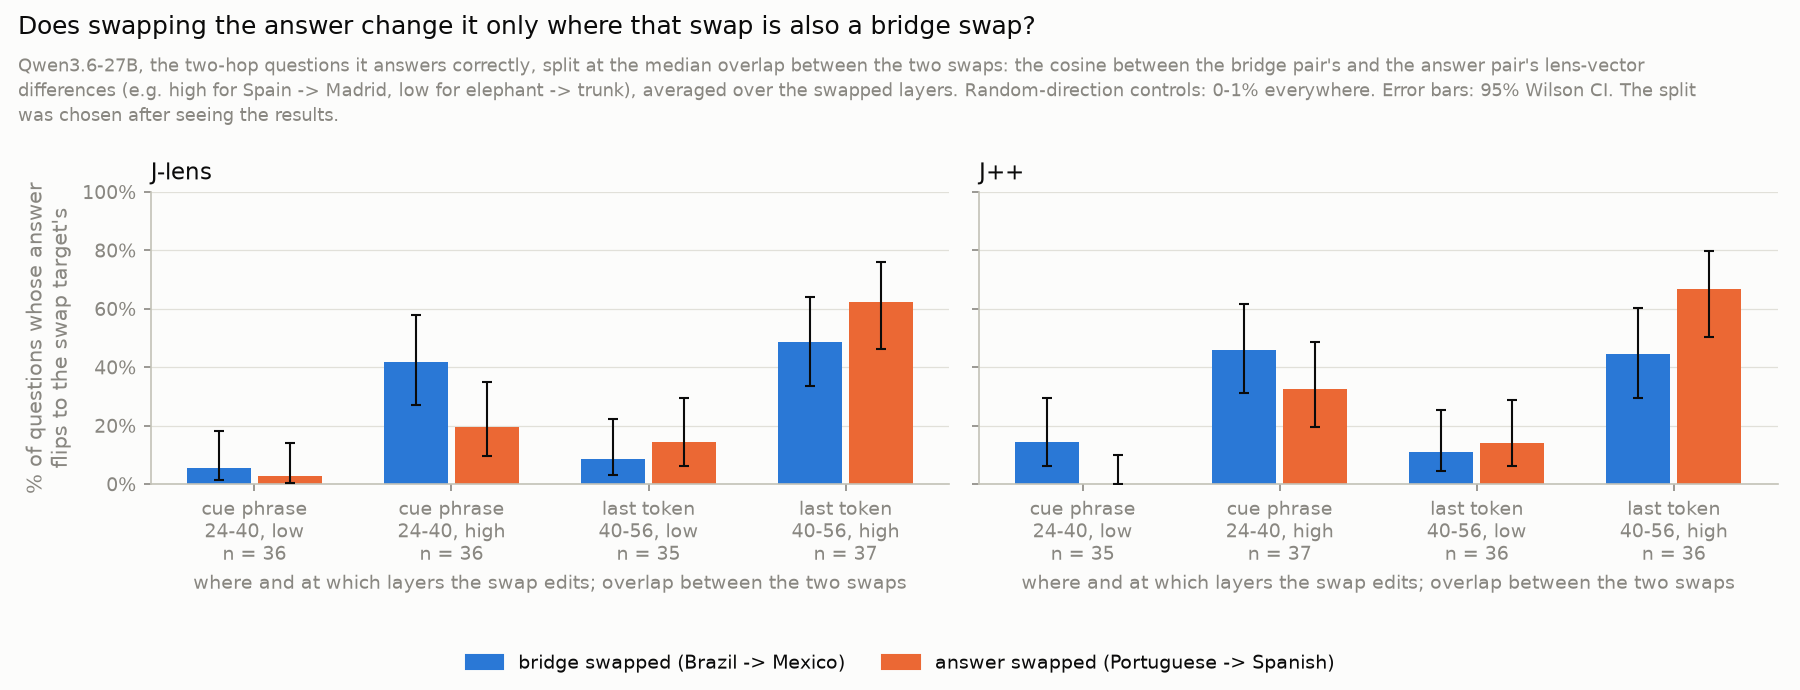
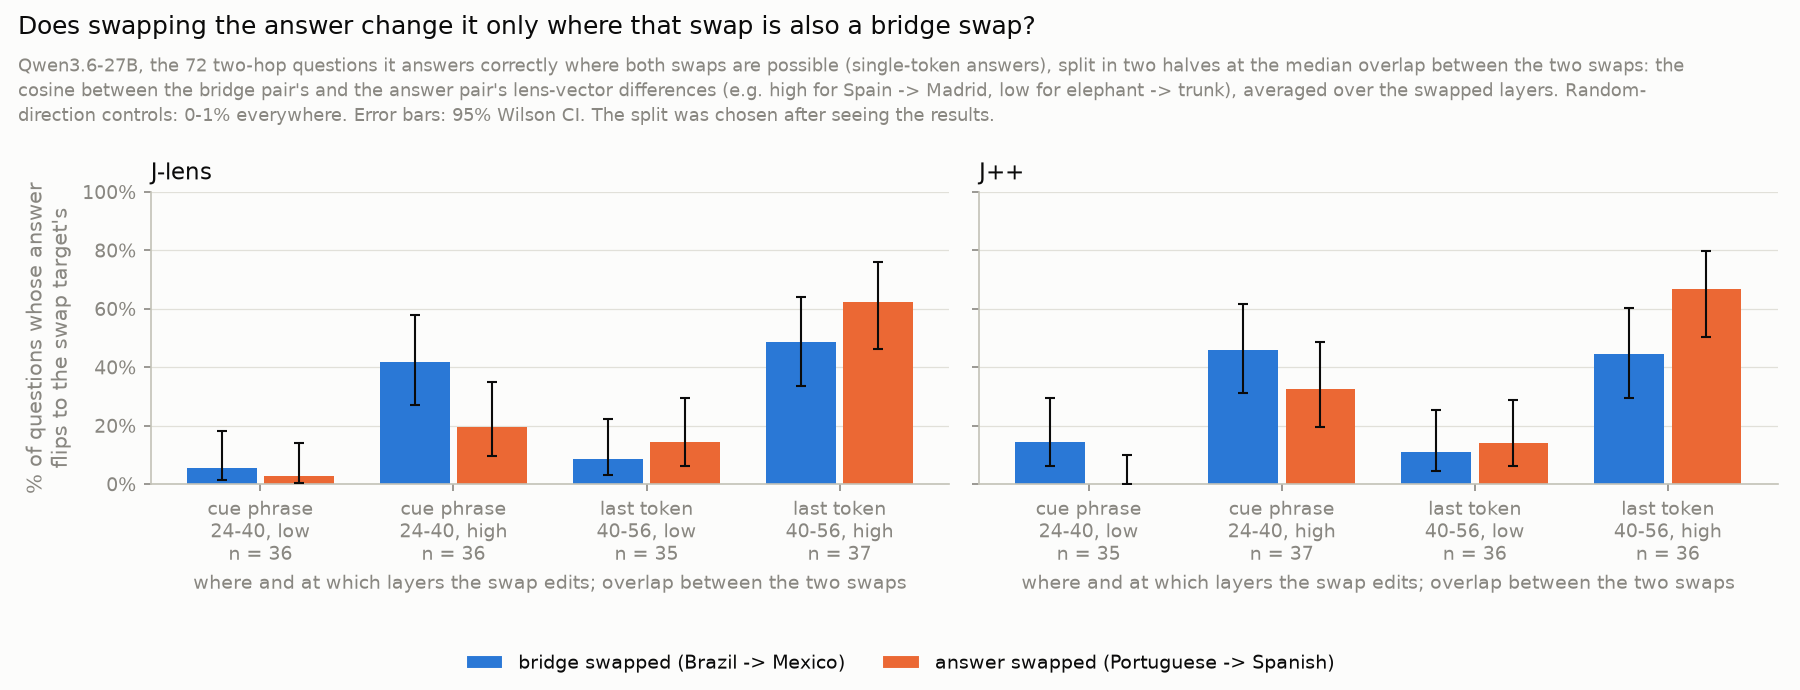
exp14: overlap figure says it splits the 72 questions with single-token answers in halves

diff --git a/scripts/exp14_cue_answer_swaps/plot.py b/scripts/exp14_cue_answer_swaps/plot.py
@@ -94,6 +94,9 @@ def plot_overlap(path: Path, rows: list[dict], post_hoc: bool = False) -> Path:
     fig, axes = plt.subplots(1, len(lenses), figsize=(6 * len(lenses), 4.6), facecolor=SURFACE, sharey=True)
     kinds = _kinds(rows)
     width = 0.8 / len(kinds)
+    first = rows[0]
+    n_total = sum(r["n"] for r in rows if (r["lens"], r["positions"], r["band"], r["kind"]) ==
+                  (first["lens"], first["positions"], first["band"], first["kind"]))  # fmt: skip
     for ax, lens in zip(np.atleast_1d(axes), lenses, strict=True):
         ticks = []
         for ci, ((positions, band), half) in enumerate((c, h) for c in cells for h in ("low", "high")):
@@ -132,7 +135,8 @@ def plot_overlap(path: Path, rows: list[dict], post_hoc: bool = False) -> Path:
         fig,
         path,
         "Does swapping the answer change it only where that swap is also a bridge swap?",
-        "Qwen3.6-27B, the two-hop questions it answers correctly, split at the median overlap between the two swaps: "
+        f"Qwen3.6-27B, the {n_total} two-hop questions it answers correctly where both swaps are possible (single-token "
+        "answers), split in two halves at the median overlap between the two swaps: "
         "the cosine between the bridge pair's and the answer pair's lens-vector differences (e.g. high for "
         "Spain -> Madrid, low for elephant -> trunk), averaged over the swapped layers. Random-direction controls: 0-1% "
         "everywhere. Error bars: 95% Wilson CI."

diff --git a/results/README.md b/results/README.md
@@ -15,7 +15,7 @@ and holds the figures as re-rendered with the current plotting code.
 | exp10_lens_sanity | Does a lens read two-hop intermediates at all? (lens-eval multihop, last token) | `exp10_lens_sanity/20261013-205936/analysis-20261015-125325/summary.json` (27B; 4B: `20261013-205057/analysis-20261015-125322`) | `../figures/exp10_lens_sanity/20261015-125342/pass_at_10_by_model.png`, `27b_by_layer.png` | `../examples/exp10_lens_sanity/index.html` (data: `exp10_lens_sanity/20261014-134942/examples.json`) |
 | exp11_bridge_vs_answer_by_layer | At the last token, at which layers are the bridge and the answer readable? | `exp11_bridge_vs_answer_by_layer/20261015-100110/analysis-20261015-125327/summary.json` (J-lens swap labels; `20261015-100426`: J++ swap labels, same ranks) | `../figures/exp11_bridge_vs_answer_by_layer/`: `pool_top1_by_layer.png`, `advantage_by_layer.png` (from that analysis folder) | `../examples/exp11_bridge_vs_answer_by_layer/index.html` (data: `exp11_bridge_vs_answer_by_layer/20261015-105407/examples.json`) |
 | exp12_position_map | Where in the prompt, and how deep, are they readable? | `exp12_position_map/20261015-100735/analysis-20261015-125333-position-map/summary.json` (J-lens swap labels; `20261015-100947`: J++ swap labels, same grids) | `../figures/exp12_position_map/`: **`two_step.png`** (headline), `layers_at_positions_jlens.png`, `by_offset.png`, `position_layer.png` (from that analysis folder); `cue_phrase.png`, `cue_phrase_lenses.png` (from `20261015-100735/analysis-20261015-132744-cue-phrase/`, the cue-phrase add-on) | `../examples/exp12_position_map/index.html` (data: `exp12_position_map/20261015-105313/examples.json`) (published: https://claude.ai/artifact/TXLZH6WxuxSQDhoK5YHTj9, anyone with the link) |
-| exp14_cue_answer_swaps | On the cue phrase, does swapping the answer change it as often as swapping the bridge? | `exp14_cue_answer_swaps/20261015-111137/summary.json`; overlap split `analysis-20261015-133725-overlap/summary.json` | `../figures/exp14_cue_answer_swaps/`: `flip_rates.png` (from the run), `flip_rates_by_overlap.png` (from the overlap analysis) | - |
+| exp14_cue_answer_swaps | On the cue phrase, does swapping the answer change it as often as swapping the bridge? | `exp14_cue_answer_swaps/20261015-111137/summary.json`; overlap split `analysis-20261015-134641-overlap/summary.json` | `../figures/exp14_cue_answer_swaps/`: `flip_rates.png` (from the run), `flip_rates_by_overlap.png` (from the overlap analysis) | - |
 
 Variants and earlier runs:
 - Prompts as published with part B's earlier (v3) labels, 67 eligible: exp11 `20261014-092835/analysis-20261014-113947/`,

diff --git a/README.md b/README.md
@@ -403,8 +403,8 @@ the last token, layers 24-40, neither works; at layers 40-56 both do, the answer
 
 ![exp14: split by overlap](figures/exp14_cue_answer_swaps/flip_rates_by_overlap.png)
 
-*How to read it: the same swaps, for the questions whose bridge and answer swaps overlap little (left of each pair of
-groups) or much. On the cue phrase the orange bar is near 0 where the overlap is low: the answer swap only works where
+*How to read it: the same swaps, for the 72 questions where both swaps are possible (single-token answers), split
+in two halves of about 36: those whose bridge and answer swaps overlap little (left of each pair of groups) or much. On the cue phrase the orange bar is near 0 where the overlap is low: the answer swap only works where
 it moves the bridge too.*
 
 **What this does not show.** The median split was chosen after seeing the results. The swaps move only the two words'
@@ -415,7 +415,7 @@ are a little smaller than the bridge's (median 0.010 vs 0.012 of the residual no
 
 Run `results/exp14_cue_answer_swaps/20261015-111137` (Qwen3.6-27B, part B's model loader, prompts and scoring as part
 B v4; the answer rows are the 72 questions with single-token answers); overlap split in
-`analysis-20261015-133725-overlap/`. Checks: the eligible questions equal part B's v4 ones (77 of 77); the bridge
+`analysis-20261015-134641-overlap/`. Checks: the eligible questions equal part B's v4 ones (77 of 77); the bridge
 swaps reproduce part B's lens-vector swaps (`exp02_swaps/main_v4_*_pos-cue`, `_pos-last`) question by question:
 J++ 154 of 154 outcomes (cue phrase 23/77 = 29.9% in both, last token 1/77), J-lens 152 of 154 (cue phrase 17/77 =
 22.1% here vs 16/77 = 20.8%; last token 1/77 in both). The two J-lens differences are borderline greedy
